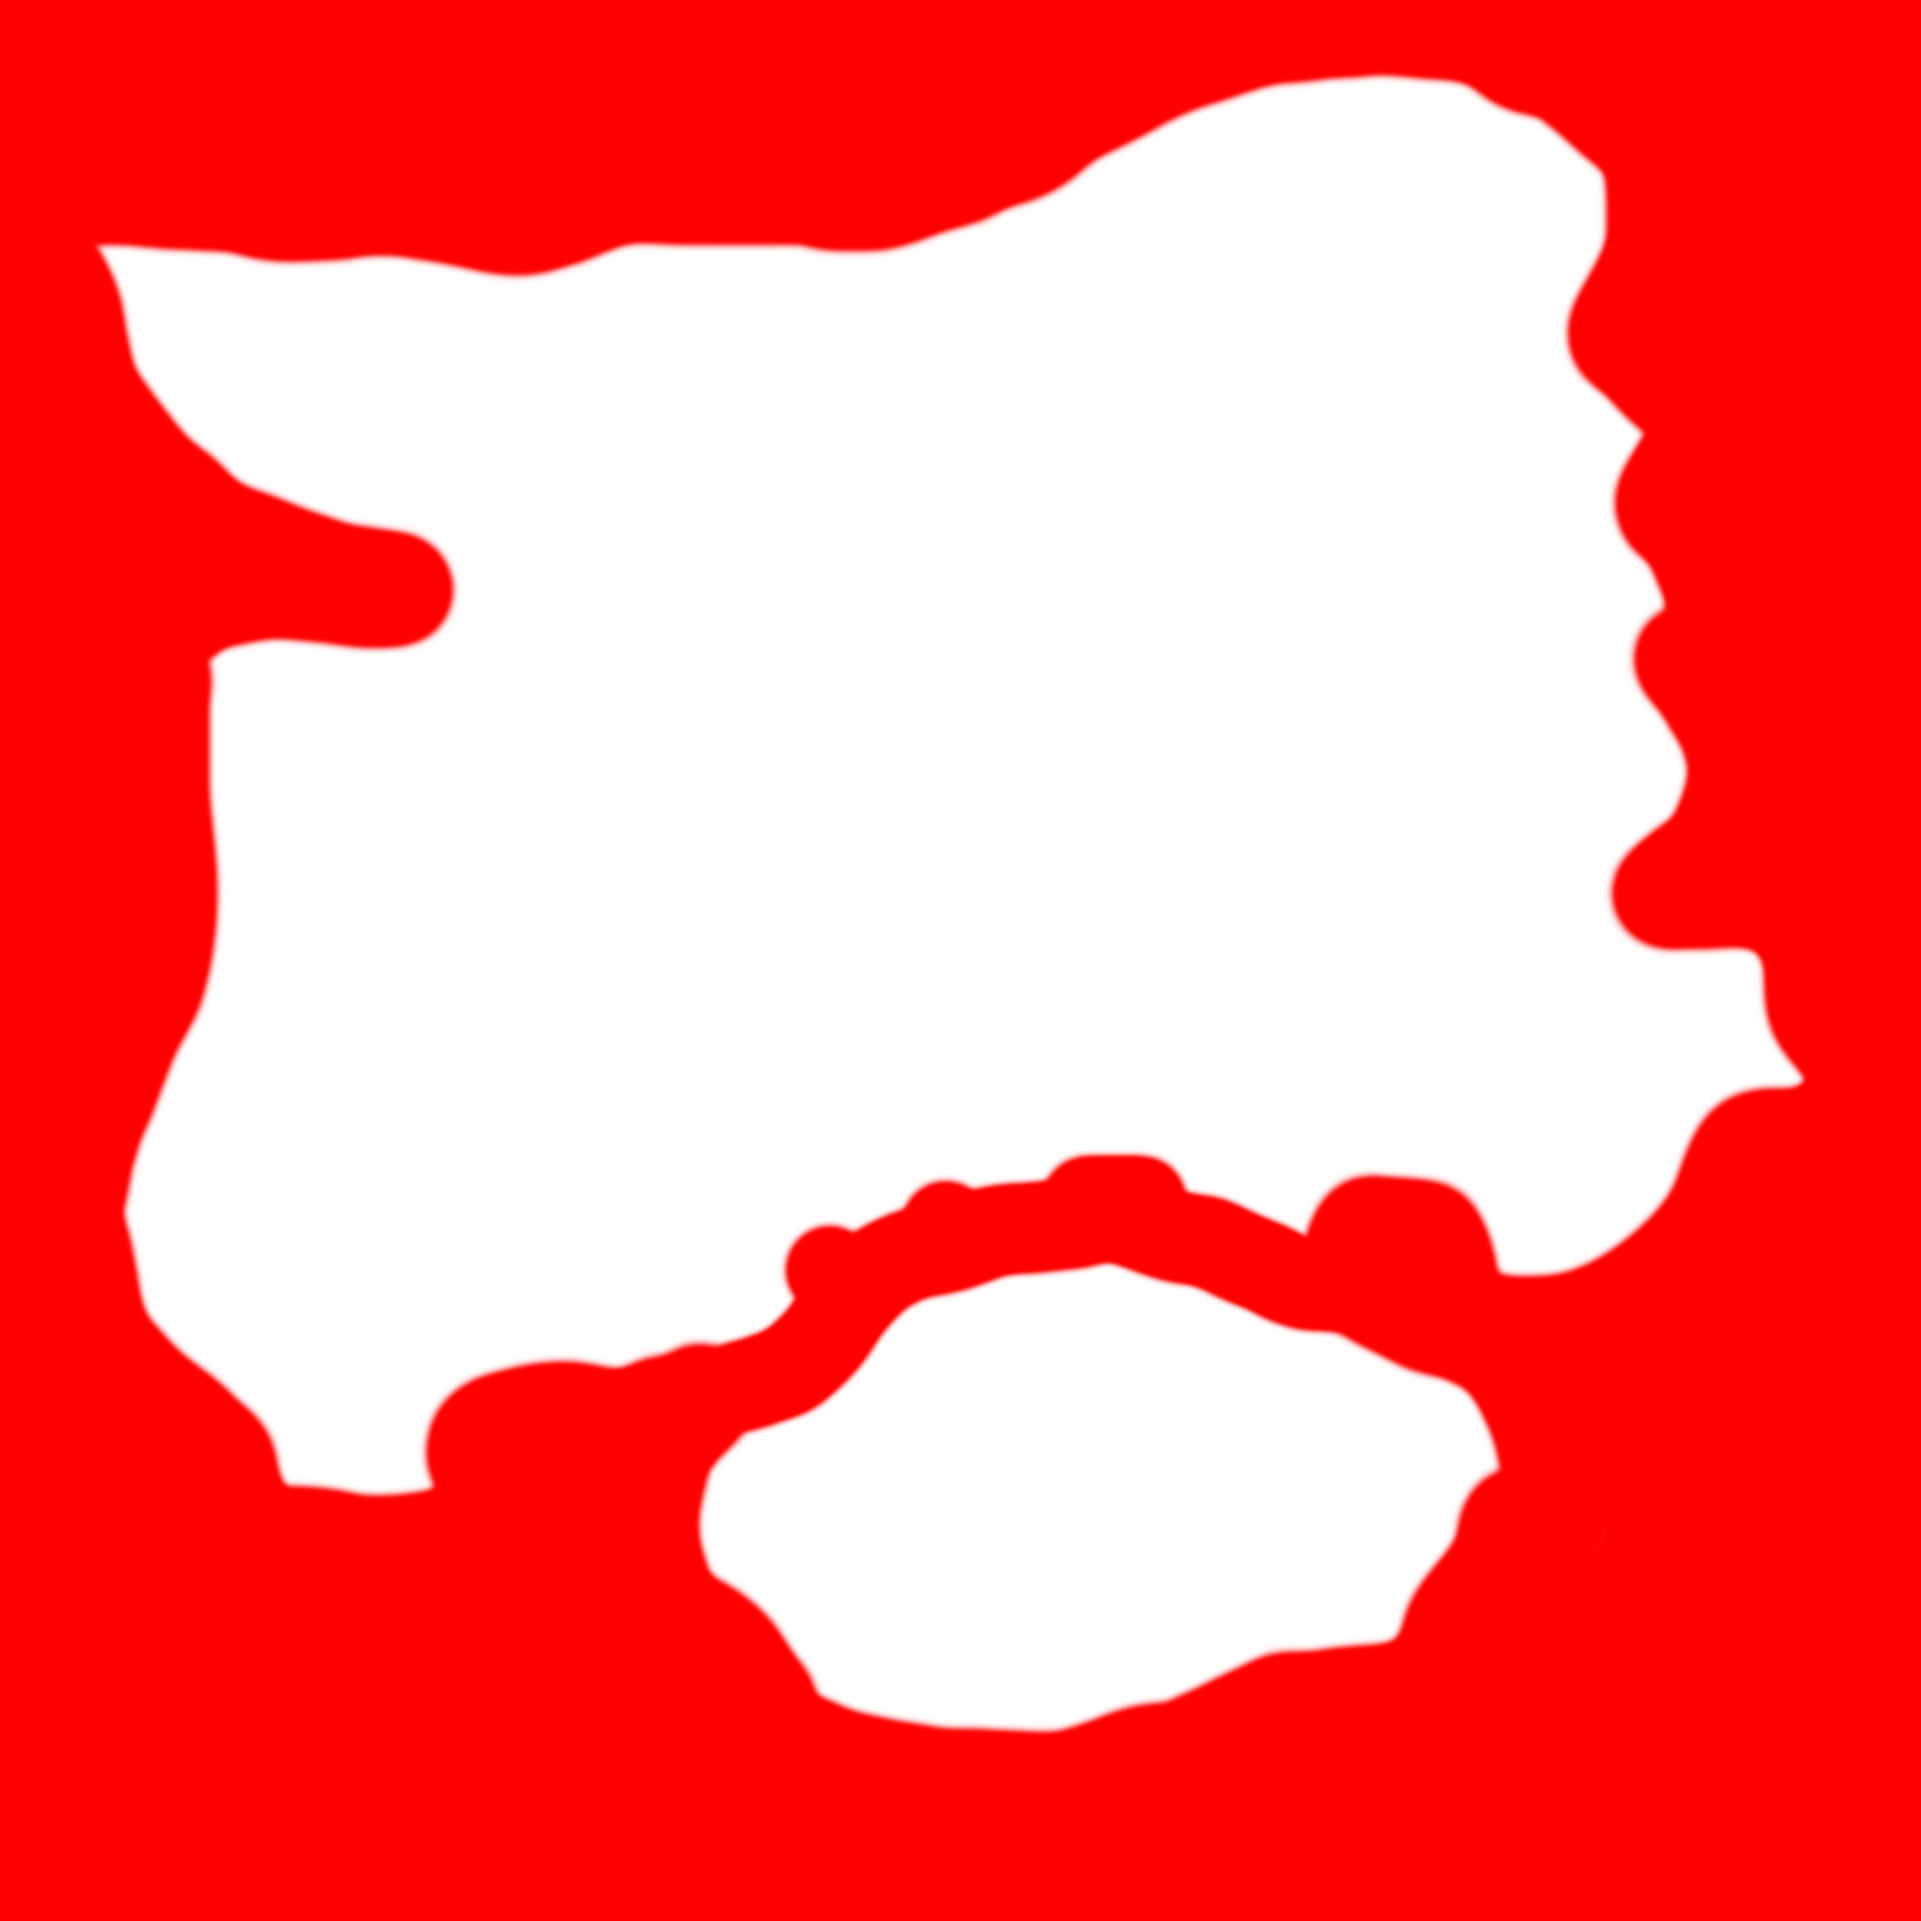
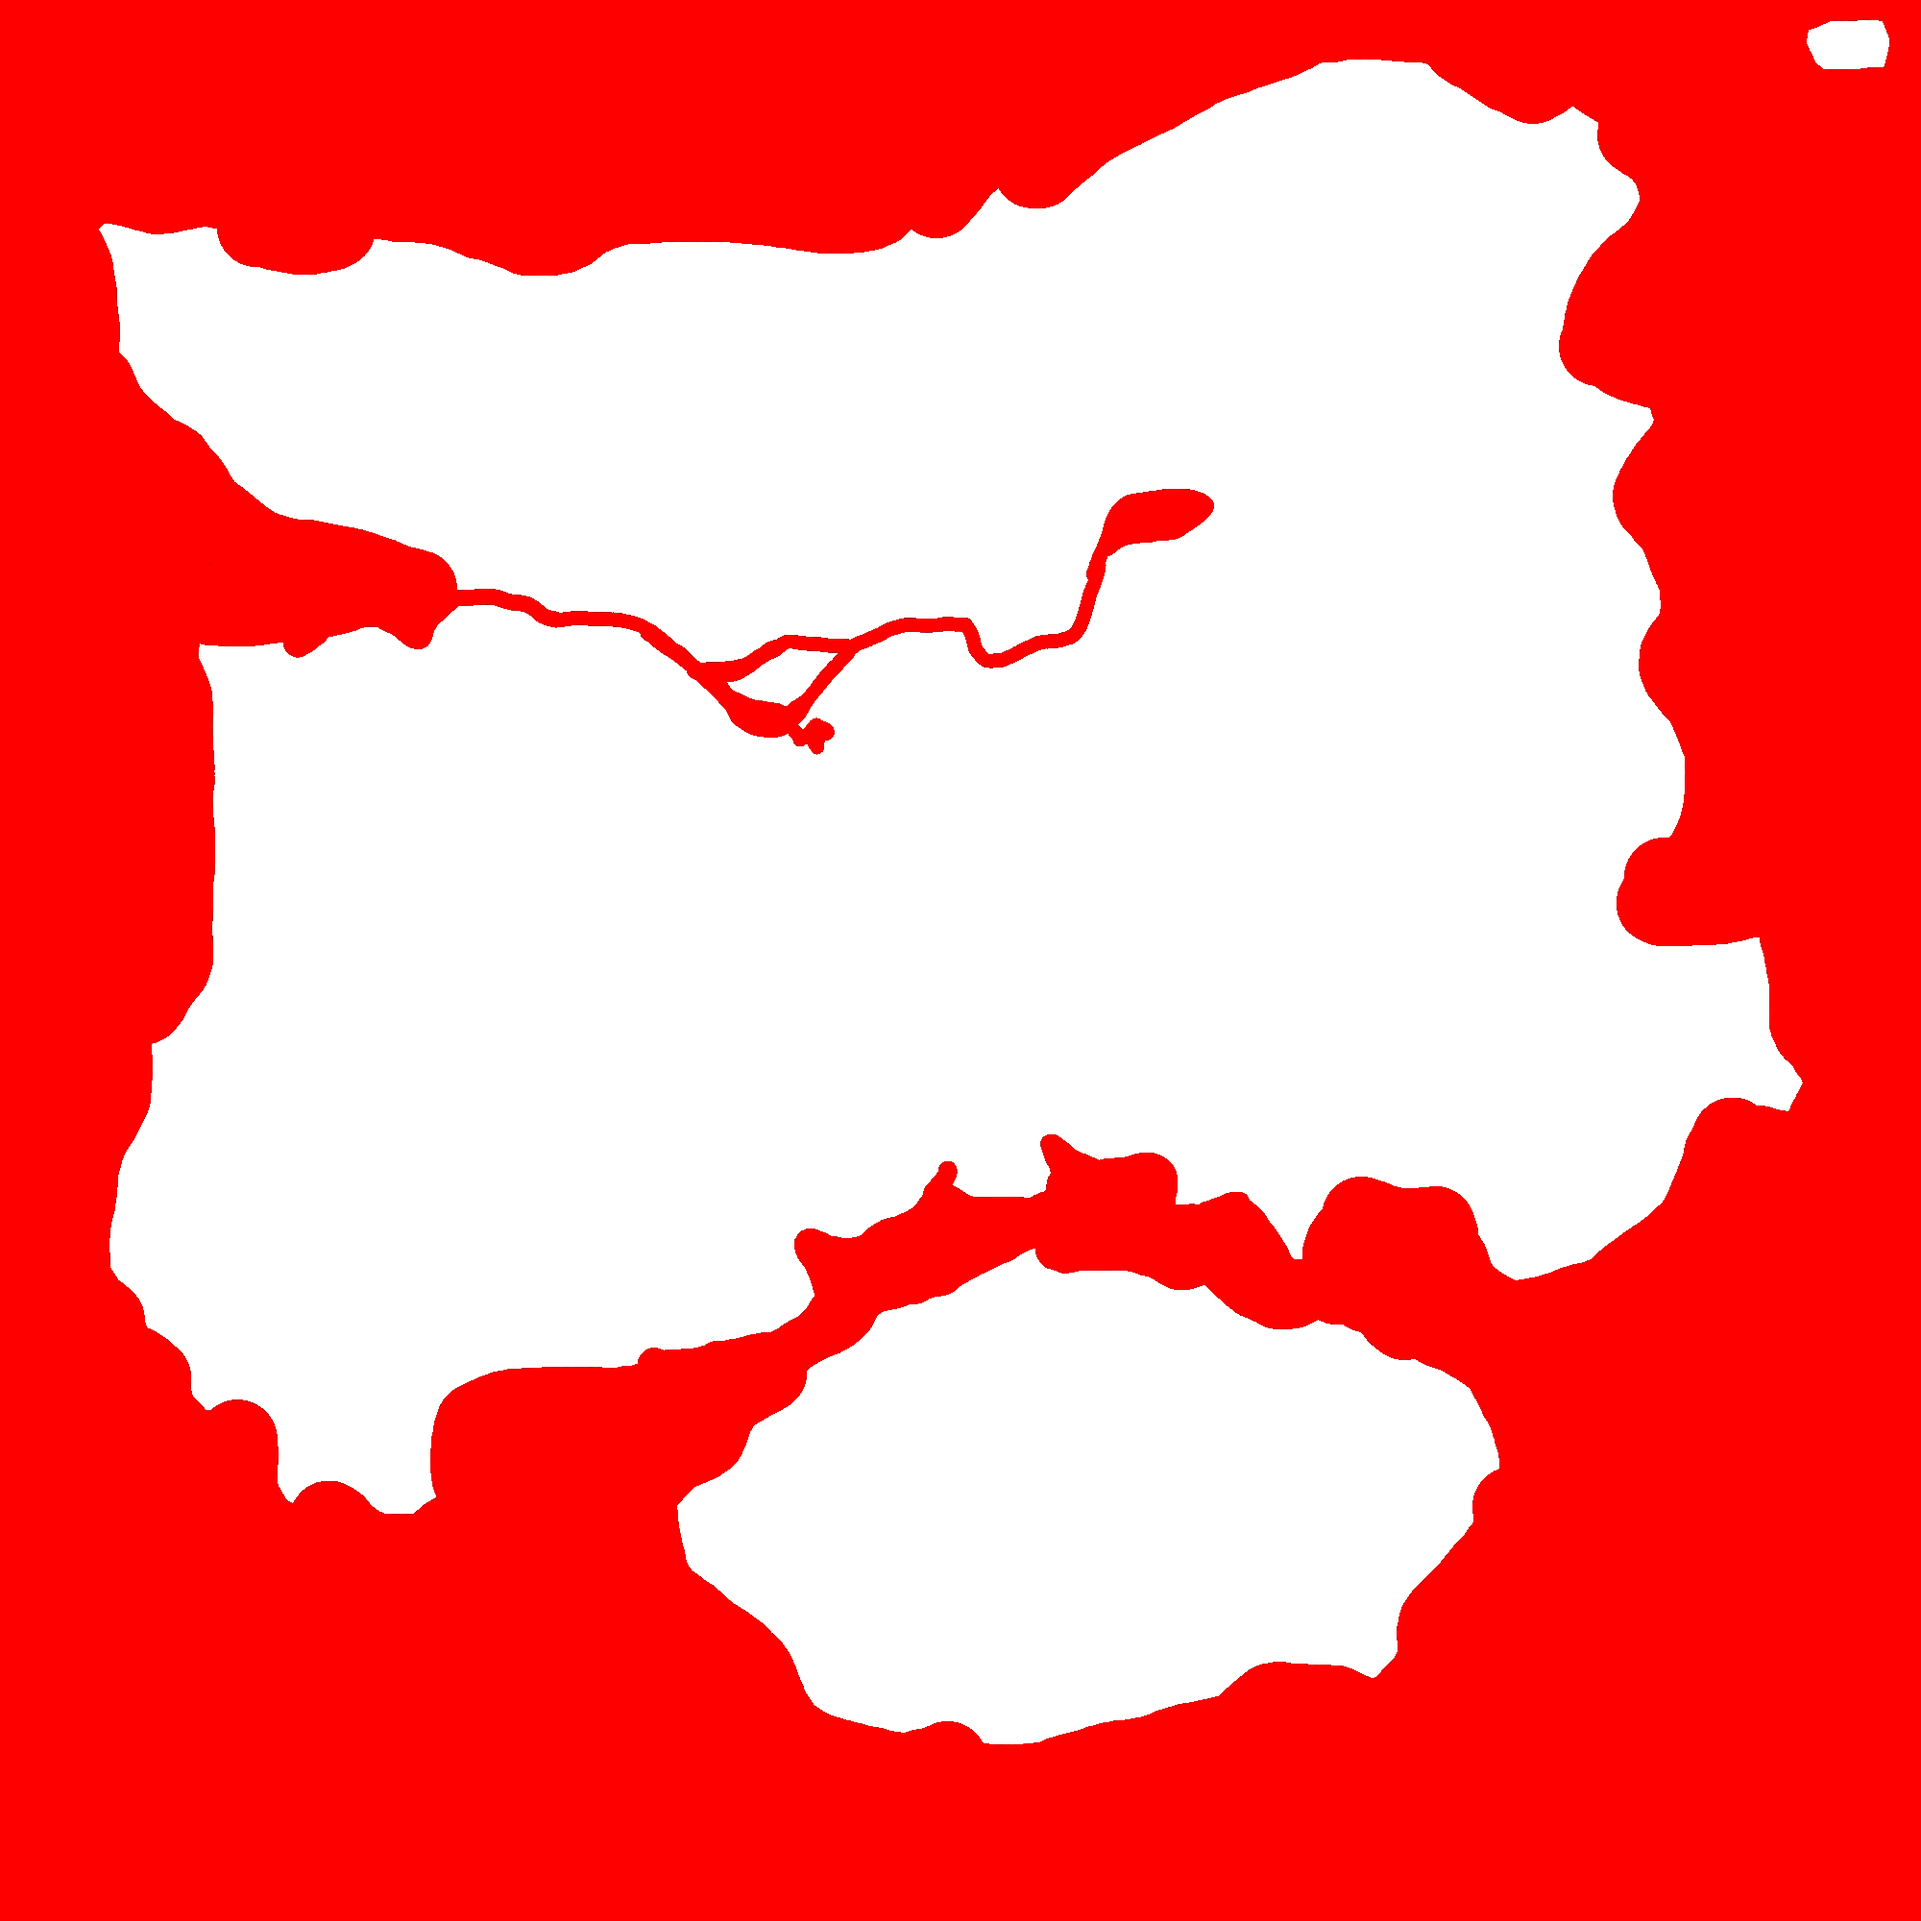
Working land ratio, zone generation up to phase 8, etc

diff --git a/iglsim_erangel.html b/iglsim_erangel.html
@@ -35,11 +35,17 @@
             let alphaData = [];
 
             var imageObj = init('res/Erangel_Mask.png');
-            
 
             function createGame() {
-                planeRoute = generatePlaneRoute();
-                generatePhaseOne([1000,1000]);
+                planeRouteObj = generatePlaneRoute();
+                phaseOneObj = generatePhaseOne(planeRouteObj);
+                phaseTwoObj = generateArbitraryPhase(phaseOneObj, 0.55, false);
+                phaseThreeObj = generateArbitraryPhase(phaseTwoObj, 0.60, false);
+                phaseFourObj = generateArbitraryPhase(phaseThreeObj, 0.60, true);
+                phaseFiveObj = generateArbitraryPhase(phaseFourObj, 0.65, false);
+                phaseSixObj = generateArbitraryPhase(phaseFiveObj, 0.65, false);
+                phaseSevenObj = generateArbitraryPhase(phaseSixObj, 0.65, false);
+                phaseEightObj = generateArbitraryPhase(phaseSevenObj, 0.70, true);
             }
 
             function init(imagePath) {
@@ -66,6 +72,23 @@
                     return alphaData[2000*y + x];
                 }
                 return -1;
+            }
+
+            function getNumberOfWaterPixelsInCircle(center, radius) {
+                function isInCircle(x, y) {
+                    return Math.sqrt(Math.pow(x-center[0], 2) + Math.pow(y-center[1], 2)) <= radius;
+                }
+
+                let landRatioResolution = 5;
+                let numWaters = 0;
+                for(let x = 0; x < 2000; x += landRatioResolution) {
+                    for(let y = 0; y < 2000; y += landRatioResolution) {
+                        if(isInCircle(x, y)) {
+                            numWaters += (getMaskPixel(x, y) > 0) ? 1 : 0;
+                        }
+                    }
+                }
+                return numWaters;
             }
 
             function drawPlaneStartpoint(point) {
@@ -170,6 +193,7 @@
                     start = randomPlanePoint();
                     end = randomPlanePoint();
                 }
+                let angle = Math.atan2(end[1]-start[1], end[0]-start[0]);
 
                 [planeBase, planeDash1, planeDash2] = drawPlaneLine(start, end);
                 planeStart = drawPlaneStartpoint(start);
@@ -178,6 +202,7 @@
                 out = {
                     start,
                     end,
+                    angle,
                     planeBase,
                     planeDash1,
                     planeDash2,
@@ -215,20 +240,119 @@
                 }, refreshTime);
             }
 
-            function generatePhaseOne(center) {
+            function drawPhaseCircle(center, radius) {
                 let map = document.getElementById("map");
 
                 let svgns = "http://www.w3.org/2000/svg";
                 let circle = document.createElementNS( svgns, 'circle' );
                 circle.setAttributeNS(null, 'cx', center[0]);
                 circle.setAttributeNS(null, 'cy', center[1]);
-                circle.setAttributeNS(null, 'r', 500);
+                circle.setAttributeNS(null, 'r', radius);
                 circle.setAttributeNS(null, 'stroke', 'white' );
-                circle.setAttributeNS(null, 'stroke-width', 5 );
+                circle.setAttributeNS(null, 'stroke-width', 3 );
                 circle.setAttributeNS(null, 'fill', 'none' );
 
                 map.appendChild(circle);
                 return circle;
+            }
+
+            function generatePhaseOne(planeRoute) {
+                let previousRadius = 1000 * Math.sqrt(2);
+                let radius = 500;
+                
+                let hardshift = (previousRadius - radius) * Math.random();
+                let angle = Math.random() * 2 * Math.PI;
+                let center = [1000+hardshift*Math.cos(angle), 1000-hardshift*Math.sin(angle)];
+                let d1 = Math.sqrt(Math.pow(center[0]-planeRoute.start[0], 2) + Math.pow(center[1]-planeRoute.start[1], 2));
+                let theta = Math.abs(planeRoute.angle - Math.atan2(center[1]-planeRoute.start[1], center[0]-planeRoute.start[0]));
+                theta = (theta > Math.PI) ? Math.abs(theta - (2 * Math.PI)) : theta;
+
+                while(getMaskPixel(Math.floor(center[0]), Math.floor(center[1])) > 0 || (d1 * Math.sin(theta)) > radius) {
+                    hardshift = (previousRadius - radius) * Math.random();
+                    angle = Math.random() * 2 * Math.PI;
+                    center = [1000+hardshift*Math.cos(angle), 1000-hardshift*Math.sin(angle)];
+                    d1 = Math.sqrt(Math.pow(center[0]-planeRoute.start[0], 2) + Math.pow(center[1]-planeRoute.start[1], 2));
+                    theta = Math.abs(planeRoute.angle - Math.atan2(center[1]-planeRoute.start[1], center[0]-planeRoute.start[0]));
+                    theta = (theta > Math.PI) ? Math.abs(theta - (2 * Math.PI)) : theta;
+                }
+                
+                let phaseOneCircle = drawPhaseCircle(center, radius);
+                return {
+                    hardshift,
+                    "angleRad" : angle,
+                    "angleDeg" : (angle * 180 / Math.PI),
+                    center,
+                    radius,
+                    "distanceFromPlane" : (d1 * Math.sin(theta)),
+                    phaseOneCircle
+                }
+            }
+
+            function generateArbitraryPhase(previousPhase, shrinkRatio, landRatio) {
+                if(!landRatio) {
+
+                    let previousRadius = previousPhase.radius;
+                    let radius = previousRadius * shrinkRatio;
+
+                    let hardshift = (previousRadius - radius) * Math.pow(Math.random(), 0.56);
+                    let angle = Math.random() * 2 * Math.PI;
+                    let center = [previousPhase.center[0]+hardshift*Math.cos(angle), previousPhase.center[1]-hardshift*Math.sin(angle)];
+
+                    while(getMaskPixel(Math.floor(center[0]), Math.floor(center[1])) > 0) {
+                        hardshift = (previousRadius - radius) * Math.random();
+                        angle = Math.random() * 2 * Math.PI;
+                        center = [previousPhase.center[0]+hardshift*Math.cos(angle), previousPhase.center[1]-hardshift*Math.sin(angle)];
+                    }
+                    
+                    let phaseCircle = drawPhaseCircle(center, radius);
+                    return {
+                        hardshift,
+                        "angleRad" : angle,
+                        "angleDeg" : (angle * 180 / Math.PI),
+                        center,
+                        radius,
+                        phaseCircle
+                    }
+
+                } else {
+
+                    let curCircle = {};
+                    let curBest = Number.MAX_SAFE_INTEGER;
+                    
+                    let landRatioTries = 100;
+                    for(let i = 1; i <= landRatioTries; i++) {
+                        let previousRadius = previousPhase.radius;
+                        let radius = previousRadius * shrinkRatio;
+
+                        let hardshift = (previousRadius - radius) * Math.pow(Math.random(), 0.56);
+                        let angle = Math.random() * 2 * Math.PI;
+                        let center = [previousPhase.center[0]+hardshift*Math.cos(angle), previousPhase.center[1]-hardshift*Math.sin(angle)];
+
+                        while(getMaskPixel(Math.floor(center[0]), Math.floor(center[1])) > 0) {
+                            hardshift = (previousRadius - radius) * Math.random();
+                            angle = Math.random() * 2 * Math.PI;
+                            center = [previousPhase.center[0]+hardshift*Math.cos(angle), previousPhase.center[1]-hardshift*Math.sin(angle)];
+                        }
+
+                        let waterCount = getNumberOfWaterPixelsInCircle(center, radius);
+                        if(waterCount < curBest) {
+                            curBest = waterCount;
+                            curCircle = {
+                                hardshift,
+                                "angleRad" : angle,
+                                "angleDeg" : (angle * 180 / Math.PI),
+                                center,
+                                radius,
+                                waterCount
+                            }
+                        }
+                    }
+
+                    let phaseCircle = drawPhaseCircle(curCircle.center, curCircle.radius);
+                    curCircle["phaseCircle"] = phaseCircle;
+                    return curCircle;
+
+                }
             }
 
         </script>
